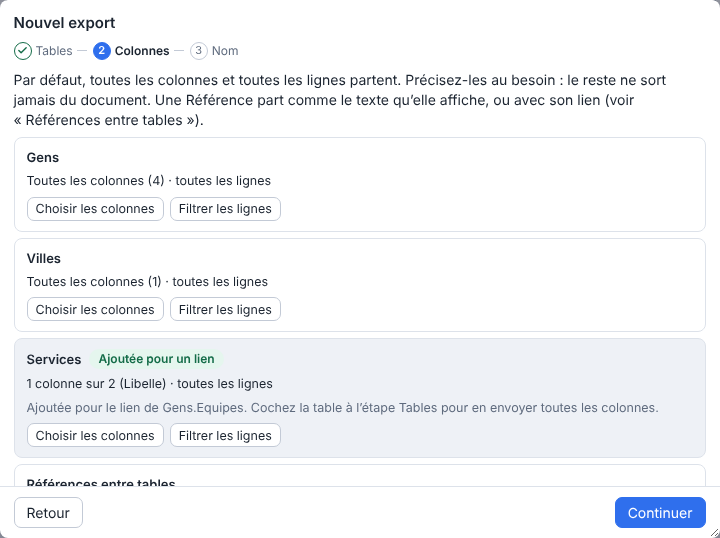
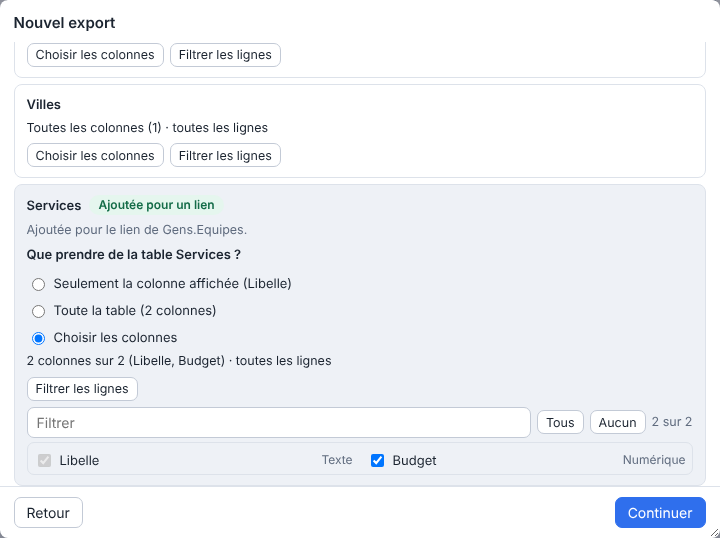
V0.28.0 : table ajoutée pour un lien, colonne affichée seule, toute la table ou colonnes au choix
Le bloc « Ajoutée pour un lien » de l'assistant d'export propose trois choix (js/source/pull.js) :
la colonne que la Référence affiche (d'emblée), toute la table (sauf ses Pièces jointes, qui ne
partent que cochées) ou les colonnes cochées. Écran seul : moteur inchangé (4.11.0).

Claude-Session: https://claude.ai/code/session_01TbSoW5bUCETEPLAPoEdMn9

diff --git a/js/source/export-wizard.js b/js/source/export-wizard.js
@@ -18,6 +18,7 @@ import { recipientWizard } from './recipient-wizard.js';
 import { progressTo } from './flow.js';
 import { backButton, cancelButton, checkList, closeButtons, confirmDialog, el, laterButton, message, notice, openWizard, pickField, run } from '../ui.js';
 import { filterEditor, filterSummary } from './filter-editor.js';
+import { PULL_MODES, extrasFor, pullColumns, pullLeftOut } from './pull.js';
 import { roleGuide } from '../guide.js';
 import { stepHelp } from '../tutorial.js';
 import { t, typeName } from '../i18n.js';
@@ -38,7 +39,8 @@ export function exportWizard(exp, onClose) {
     selected: new Map(exp ? exp.tables.map(tb => [tb.table, tb.columns.map(c => c.id)]) : []), // table -> colonnes cochées
     filters: new Map(exp ? exp.tables.map(tb => [tb.table, tb.filter]) : []), // table -> filtre de lignes, ou null
     choices: new Map(), // colonne Référence (refKey) -> garder son lien ? (choix fait dans cette fenêtre)
-    extras: new Map(), // table ajoutée pour un lien -> colonnes cochées en plus de celle que le lien affiche
+    extras: new Map(), // table ajoutée pour un lien -> colonnes cochées en plus de celle que le lien affiche (choix « Choisir les colonnes »)
+    pulls: new Map(), // table ajoutée pour un lien -> ce qu'elle envoie : 'shown' (d'emblée), 'all' ou 'pick' (voir pull.js)
     saved: savedLinks(exp), // refKey -> la colonne de l'export enregistré gardait son lien
   }));
 }
@@ -57,7 +59,7 @@ async function showTables(ctx) {
     items: tables.map(id => ({ value: id, label: id })), checked: ctx.chosen, label: t('send.step.tables'),
     onChange: (values) => {
       // Une table cochée ici n'est plus « ajoutée pour un lien » : elle repart de ses colonnes et de son filtre habituels.
-      for (const table of values.filter(v => !ctx.chosen.includes(v))) for (const map of [ctx.extras, ctx.selected, ctx.filters]) map.delete(table);
+      for (const table of values.filter(v => !ctx.chosen.includes(v))) for (const map of [ctx.extras, ctx.pulls, ctx.selected, ctx.filters]) map.delete(table);
       ctx.chosen = values; next.disabled = !values.length; ctx.wizard.buttons([cancel, next]);
     },
   });
@@ -116,38 +118,71 @@ function togglePart(part, label, open, onOpen = () => {}) {
 
 // Ce que la personne décide pour chaque colonne Référence ou Liste de références cochée (voir linkOffers), à
 // l'état de la fenêtre : les choix faits, ceux de l'export enregistré, sinon le lien est gardé quand la table visée est
-// cochée. Les colonnes d'une table ajoutée pour un lien sont celles que le lien affiche et celles que la personne y coche.
+// cochée. Les colonnes d'une table ajoutée pour un lien sont celles que le lien affiche et celles que la personne y prend
+// (toute la table, ou celles qu'elle y coche : voir pull.js).
+const pullMode = (ctx, table) => ctx.pulls.get(table) || 'shown';
+const pulledColumns = (ctx, schema, table, required = []) => pullColumns({
+  mode: pullMode(ctx, table), usable: exportableColumns(schema.columns(table) || []), required, extras: [...(ctx.extras.get(table) || [])],
+});
 const offersOf = (ctx, schema) => linkOffers({
   chosen: ctx.chosen, columnsOf: table => exportableColumns(schema.columns(table) || []),
-  picked: table => (ctx.chosen.includes(table) ? ctx.selected.get(table) : [...(ctx.extras.get(table) || [])]),
+  picked: table => (ctx.chosen.includes(table) ? ctx.selected.get(table) : pulledColumns(ctx, schema, table)),
   choices: ctx.choices, saved: ctx.saved,
 });
 
-// Bloc d'une table ajoutée pour un lien : elle ne part qu'avec la colonne que la Référence affiche (verrouillée) et celles
-// que la personne coche en plus ; ses lignes peuvent se filtrer comme celles des autres tables.
+// Bloc d'une table ajoutée pour un lien. Trois choix (voir pull.js) : la seule colonne que la Référence affiche (d'emblée), toute la
+// table, ou les colonnes que la personne coche (la colonne affichée reste verrouillée). Ses lignes peuvent se filtrer comme celles
+// des autres tables.
 function pulledBlock(ctx, schema, { table, required, because, onChange }) {
   const usable = exportableColumns(schema.columns(table) || []);
-  const picked = () => [...new Set([...required, ...(ctx.extras.get(table) || [])])];
+  const mode = () => pullMode(ctx, table);
+  const picked = () => pulledColumns(ctx, schema, table, required);
+  const labels = ids => usable.filter(c => ids.includes(c.id)).map(c => c.label);
   const summary = el('p', { class: 'small' });
+  const leftOut = el('p', { class: 'muted small' });
   const describe = () => {
-    const names = usable.filter(c => picked().includes(c.id)).map(c => c.label).join(', ');
     const rows = filterSummary(ctx.filters.get(table));
+    const names = mode() === 'all' ? t('send.refs.summary.whole') : labels(picked()).join(', ');
     summary.textContent = `${t('send.columns.some', { n: picked().length, total: usable.length })} (${names}) · ${rows ? t('send.rows.filtered', { filter: rows }) : t('send.rows.all')}`;
+    const files = pullLeftOut({ mode: mode(), usable }).map(c => c.label);
+    leftOut.textContent = files.length ? t('send.refs.mode.files', { cols: files.join(', ') }) : '';
+    leftOut.classList.toggle('hidden', !files.length);
   };
-  const columns = el('div', { class: 'form' }, checkList({
-    items: usable.map(c => ({ value: c.id, label: columnLabel(c), hint: typeName(c.source), keywords: typeName(c.source), locked: required.includes(c.id) })), wide: true,
-    checked: picked(), label: table, onChange: (values) => { ctx.extras.set(table, values.filter(v => !required.includes(v))); describe(); onChange(); },
-  }));
+  const columns = el('div', { class: 'form' });
+  const drawColumns = () => {
+    columns.replaceChildren(checkList({
+      items: usable.map(c => ({ value: c.id, label: columnLabel(c), hint: typeName(c.source), keywords: typeName(c.source), locked: required.includes(c.id) })), wide: true,
+      checked: picked(), label: table, onChange: (values) => { ctx.extras.set(table, values.filter(v => !required.includes(v))); describe(); onChange(); },
+    }));
+    columns.classList.toggle('hidden', mode() !== 'pick');
+  };
+  const choose = (next) => {
+    // De « toute la table » à « choisir » : ce qui partait reste coché, pour pouvoir y retirer des colonnes.
+    if (next === 'pick' && mode() !== 'pick') ctx.extras.set(table, extrasFor({ usable, required, columns: picked() }));
+    ctx.pulls.set(table, next);
+    drawColumns();
+    describe();
+    onChange();
+  };
+  const name = `gristsync-pull-${table}`;
+  const texts = {
+    shown: t('send.refs.mode.shown', { cols: labels(required).join(', ') }),
+    all: t('send.refs.mode.all', { n: usable.filter(c => !pullLeftOut({ mode: 'all', usable }).includes(c)).length }),
+    pick: t('send.refs.mode.pick'),
+  };
+  const modes = el('div', { class: 'radios pull-modes', role: 'radiogroup', 'aria-label': t('send.refs.mode', { table }) },
+    PULL_MODES.map(value => el('label', { class: 'check' },
+      el('input', { type: 'radio', name, value, checked: mode() === value, onchange: () => choose(value) }), el('span', {}, texts[value]))));
   const editor = filterEditor({ table, columns: usable, current: ctx.filters.get(table), labelOf: columnLabel, onChange: (filter) => { ctx.filters.set(table, filter); describe(); } });
   const filtered = Boolean(filterSummary(ctx.filters.get(table)));
   if (filtered) editor.load();
+  drawColumns();
   describe();
-  return el('div', { class: 'form table-block table-added' },
-    el('div', { class: 'added-head' }, el('h3', {}, table), el('span', { class: 'pill pill-ok' }, t('send.refs.added'))), summary,
+  return el('div', { class: 'form table-block table-added', 'data-pulled': table },
+    el('div', { class: 'added-head' }, el('h3', {}, table), el('span', { class: 'pill pill-ok' }, t('send.refs.added'))),
     el('p', { class: 'muted small' }, t('send.refs.added.because', { cols: because.join(', ') })),
-    el('div', { class: 'block-actions' },
-      togglePart(columns, t('send.columns.pick'), (ctx.extras.get(table) || []).length > 0),
-      togglePart(editor.node, t('send.rows.pick'), filtered, editor.load)),
+    el('p', { class: 'field-title' }, t('send.refs.mode', { table })), modes, summary, leftOut,
+    el('div', { class: 'block-actions' }, togglePart(editor.node, t('send.rows.pick'), filtered, editor.load)),
     columns, editor.node);
 }
 
@@ -181,7 +216,7 @@ function refRow(ctx, offer, onPick) {
 }
 
 // Colonnes Référence et Liste de références (voir links.js) : pour chacune, n'envoyer que le texte affiché ou garder le lien (la table
-// visée s'ajoute alors à l'export avec sa seule colonne affichée). Hors Échange, où les colonnes vont dans les deux sens par leur
+// visée s'ajoute alors à l'export : sa colonne affichée seule, toute la table ou des colonnes au choix). Hors Échange, où les colonnes vont dans les deux sens par leur
 // nom. `onTables` reçoit les tables de l'export à chaque changement. Rend les nœuds (tables ajoutées, puis bloc des choix).
 function linkSection(ctx, schema, onTables) {
   if (ctx.exp?.echange) return null;
@@ -201,12 +236,15 @@ function linkSection(ctx, schema, onTables) {
   };
   function refresh() {
     const offers = offersOf(ctx, schema);
-    for (const table of [...ctx.extras.keys()]) if (!offers.pulled.has(table)) ctx.extras.delete(table);
+    for (const map of [ctx.extras, ctx.pulls]) for (const table of [...map.keys()]) if (!offers.pulled.has(table)) map.delete(table);
     const rowsSig = JSON.stringify(offers.rows.map(r => [r.key, r.ok, r.why]));
     if (rowsSig !== state.shown) { state.shown = rowsSig; redrawRefs(offers); } else offers.rows.forEach(r => state.rows.get(r.key).update(r));
     const pulledSig = JSON.stringify([[...offers.pulled], offers.rows.filter(r => r.link).map(r => [r.key, r.target])]);
     if (pulledSig !== state.pulled) { state.pulled = pulledSig; redrawPulled(offers); }
-    const items = [...offers.pulled].map(([table, required]) => `${table} (${required.map(id => (exportableColumns(schema.columns(table) || []).find(c => c.id === id) || { label: id }).label).join(', ')})`);
+    const items = [...offers.pulled].map(([table, required]) => {
+      const names = pullMode(ctx, table) === 'all' ? [t('send.refs.summary.whole')] : pulledColumns(ctx, schema, table, required).map(id => (exportableColumns(schema.columns(table) || []).find(c => c.id === id) || { label: id }).label);
+      return `${table} (${names.join(', ')})`;
+    });
     state.summary.textContent = items.length ? t('send.refs.summary.some', { items: items.join(', ') }) : t('send.refs.summary.none');
     onTables([...ctx.chosen, ...offers.pulled.keys()]);
   }
@@ -344,10 +382,11 @@ function showName(ctx) {
 }
 
 // Les choix de la personne : par table, ses colonnes cochées et son filtre (saveChosenExport les écrit), les tables ajoutées
-// pour un lien (avec leur seule colonne affichée et ce que la personne y a coché) et les colonnes qui gardent leur lien.
+// pour un lien (avec ce que la personne y prend : la colonne affichée seule, toute la table ou ses colonnes cochées) et les colonnes qui gardent leur lien.
 async function choicesOf(ctx) {
-  const offers = ctx.exp?.echange ? null : offersOf(ctx, await readSchema());
-  const added = offers ? [...offers.pulled].map(([table, required]) => ({ table, columns: [...new Set([...required, ...(ctx.extras.get(table) || [])])], filter: ctx.filters.get(table) || null })) : [];
+  const schema = await readSchema();
+  const offers = ctx.exp?.echange ? null : offersOf(ctx, schema);
+  const added = offers ? [...offers.pulled].map(([table, required]) => ({ table, columns: pulledColumns(ctx, schema, table, required), filter: ctx.filters.get(table) || null })) : [];
   const explicit = ctx.chosen.map(table => ({ table, columns: ctx.selected.get(table), filter: ctx.filters.get(table) || null }));
   return { selection: [...explicit, ...added], links: new Set(offers ? offers.rows.filter(r => r.link).map(r => r.key) : []) };
 }

diff --git a/js/source/pull.js b/js/source/pull.js
@@ -1,0 +1,23 @@
+// Table ajoutée à l'export pour garder le lien d'une Référence (voir linkOffers de engine/logic/links.js) : ce qu'elle envoie.
+// Trois choix, faits dans son bloc de l'étape Colonnes :
+//  - 'shown' (d'emblée) : la seule colonne que le lien affiche, rien de plus ;
+//  - 'all' : toutes les colonnes de la table, sauf les Pièces jointes (elles ne partent que cochées : leurs fichiers partent page ouverte
+//    et peuvent peser lourd), que la personne ajoute par 'pick' ;
+//  - 'pick' : la colonne affichée (toujours envoyée, verrouillée) et celles que la personne coche.
+// Logique pure : l'écran donne les colonnes envoyables de la table (`usable`, exportableColumns), celles que le lien exige (`required`) et
+// celles que la personne a cochées en plus (`extras`) ; le moteur ne connaît que la liste finale (`saveChosenExport`).
+import { isFileColumn } from '../engine/logic/exports.js';
+
+export const PULL_MODES = ['shown', 'all', 'pick'];
+
+// Colonnes envoyées par une table ajoutée pour un lien, dans l'ordre : celles que le lien exige, puis les autres.
+export function pullColumns({ mode = 'shown', usable = [], required = [], extras = [] }) {
+  const more = mode === 'all' ? usable.filter(c => !isFileColumn(c)).map(c => c.id) : mode === 'pick' ? extras : [];
+  return [...new Set([...required, ...more])];
+}
+
+// Colonnes de Pièces jointes que « toute la table » laisse de côté (à dire à la personne).
+export const pullLeftOut = ({ mode = 'shown', usable = [] }) => (mode === 'all' ? usable.filter(isFileColumn) : []);
+
+// Le choix qui décrit des colonnes déjà cochées : passer de « toute la table » à « choisir » garde ce qui partait, pour pouvoir y retirer.
+export const extrasFor = ({ usable = [], required = [], columns = [] }) => columns.filter(id => !required.includes(id) && usable.some(c => c.id === id));

diff --git a/css/style.css b/css/style.css
@@ -170,6 +170,7 @@ main { padding: 12px; max-width: 760px; margin: 0 auto; }
 .ref-row { display: grid; grid-template-columns: minmax(0, 1fr) auto; gap: 4px 12px; align-items: center; padding: 8px 0 2px; border-top: 1px solid var(--border); }
 .ref-row .ref-note { grid-column: 1 / -1; }
 .ref-row .radios { flex-wrap: wrap; }
+.pull-modes { flex-direction: column; gap: 4px; align-items: flex-start; }
 @media (max-width: 560px) { .ref-row { grid-template-columns: minmax(0, 1fr); } }
 .table-block .summary { padding-top: 6px; border-top: 1px solid var(--border); font-weight: 600; }
 .fiche { display: grid; grid-template-columns: auto 1fr; gap: 3px 12px; margin: 6px 0; }

diff --git a/js/config.js b/js/config.js
@@ -16,4 +16,4 @@ export const widgetUrl = () => (servedAt() === BETA_URL ? BETA_URL : WIDGET_URL)
 // D'où cette copie est servie, pour le diagnostic.
 export const servedFrom = () => ({ [BETA_URL]: 'bêta', [WIDGET_URL]: 'officielle' }[servedAt()] || servedAt());
 
-export const VERSION = '0.27.0';
+export const VERSION = '0.28.0';

diff --git a/GFS-ETAT.md b/GFS-ETAT.md
@@ -1,6 +1,6 @@
 # GFS-ETAT : syncPlus
 
-Mis à jour le 2026-11-12. Moteur 4.11.0 (dernier changement décrit : références entre tables, choix par colonne, voir « Changements ») ; syncPlus est à la 0.27.0.
+Mis à jour le 2026-11-13. Moteur 4.11.0 (dernier changement décrit : références entre tables, choix par colonne, voir « Changements ») ; syncPlus est à la 0.28.0 (écran seul, moteur inchangé).
 **Nom du produit** (décisions du porteur, 12 novembre : « Le produit sera syncPlus pour être cohérent avec le reste du naming de GFS », puis « à l'écran : Sync+ ») : le produit et le dépôt s'appellent « syncPlus », le widget s'affiche « Sync+ » (titre, diagnostic, consignes, tutoriel intégré) ; ce fichier disait « Sync+ » et « Synchro Grist ». La table technique s'appelle toujours `Synchro`, rien ne change dans les documents.
 Fichier de développement : il ne se publie pas (hors du dépôt public).
 
@@ -37,6 +37,7 @@ Fichier de développement : il ne se publie pas (hors du dépôt public).
 - **Pour la suite** : une règle est écrite dans le `README` du moteur (5 : une fonction qui grossit se découpe, sous les seuils ; 6 : le texte des formules de `Synchro` ne change pas sans décision). GFS peut mettre à jour le `README` du kit (« aucune fonction au-dessus des seuils » redevient vrai).
 
 ## Changements qui touchent GFS
+- 2026-11-13 · syncPlus 0.28.0 · **moteur inchangé (4.11.0)**, rien à reprendre. Écran seul : pour une table ajoutée à l'export par « Garder le lien », la personne choisit ce qu'elle envoie (la colonne affichée seule, toute la table sauf ses Pièces jointes, ou des colonnes au choix : `js/source/pull.js`, hors du moteur). Un hôte qui veut le même choix passe à `saveChosenExport` la `selection` voulue (la colonne affichée est toujours exigée par `linkOffers` : `pulled`), et à `linkOffers` les colonnes prises par `picked` (les Références d'une table prise en entier deviennent des choix de plus).
 - 2026-11-12 · `90ee7dc` · **moteur 4.11.0, mineure** (syncPlus 0.27.0, demande du porteur : « lorsqu'il y a des références dans les tables envoyées, peut-on l'indiquer ? et demander si l'user veut envoyer le contenu uniquement en valeur ou ajouter la table/colonnes utilisées pour conserver les références ? et que côté cible on refasse les références fonctionnelles »). Remplace la case unique « Garder les liens » par un choix **par colonne** Référence ou Liste de références. **Ce que GFS peut faire** : appeler `linkOffers({ chosen, columnsOf, picked, choices, saved })` (`logic/links.js`) pour savoir quelles colonnes offrent un lien et quelles tables s'ajoutent (`pulled`, avec leur seule colonne affichée) ; passer au `saveChosenExport({ …, links })` un `Set` de `refKey(table, colonne)` (exactement ces colonnes, listes comprises) ou `true` (ancien sens : les Références seules) ; côté CIBLE, rien à faire (le passage convertit les colonnes créées par le widget, une Liste de références comme une Référence, et complète une liste dont une ligne visée n'est pas encore arrivée) ; `relink(journal)` (`target/loop.js`) refait, sur clic d'un propriétaire après confirmation, une colonne restée du texte parce qu'elle était remplie (`result.relinkable` dans le résultat de la table). La description signée des colonnes gagne `list: true` à côté de `link` (une CIBLE d'avant la 4.11 ferait d'une Liste de références une Référence simple : relever `CODE_FORMAT` à la publication). Port (`PORT_SHAPE`), noms de tables, texte des formules de `Synchro` (`formulas-golden` inchangé : `getattr(r, id).id_sync` d'un ensemble de lignes rend la liste) **inchangés**. Essais : unit 510 (`links`, `engine-refs`), e2e `ONLY_LINKS=1`. Détail : `js/engine/README.md` (« Références entre tables, choix par colonne (4.11.0) »).
 - 2026-11-12 · `b7d16ef` · **moteur 4.10.0, mineure** (syncPlus 0.26.0, point 7 de la liste du porteur : « option SOURCE pour l'ordre, les colonnes cachées et les vues »). Rien n'est ajouté au port ni aux tables, `CODE_FORMAT` et texte des formules de `Synchro` inchangés. **Comportement par défaut inchangé** : sans la case (`layout` de `saveChosenExport`, décochée d'emblée, jamais en Échange), aucune description de colonne ne change. Avec elle, chaque colonne porte `pos` (rang parmi les colonnes envoyées et montrées par la page de la table, -1 si la page la cache) dans la description signée des colonnes (`logic/layout.js` : `modelSection`, `withLayout`, `layoutSent`, `planLayout`, `isPos`) ; la SOURCE le tient à jour sans renvoyer de ligne (`refreshOptions`, qui lit `_grist_Views_section` et `_grist_Views_section_field` seulement si une description porte `"pos":`). **CIBLE** (`target/layout.js`, `layoutColumns`) : seules les colonnes créées par le widget (`own`) sont décidées, une fois chacune (`laid` dans l'entrée de la note, ajouté aux clés de `saveEntries`), puis sur `restyle(journal, { layout: true })` ; on retire le champ d'une colonne cachée et on répartit les places des champs entre les colonnes montrées ; jamais de donnée, de droit, de tri ni de filtre. `sentElements` rend `'layout'`. Un hôte qui n'envoie ni ne reçoit `pos` ne change pas. Vérifié dans un Grist 1.7 : les colonnes cachées n'existent que dans une section de page (la section de données brutes refuse de retirer un champ), Grist décale seul les positions qui se touchent.
 - 2026-11-12 · `e1df926` · **moteur 4.9.0, mineure** (syncPlus 0.25.0, point 6 de la liste du porteur : « valeurs par défaut et formules de déclenchement, mêmes garde-fous que les formules »). Rien n'est ajouté au port ni aux tables, `CODE_FORMAT` et texte des formules de `Synchro` inchangés. **Aucun effet sans la case Formules** (`formulas` de `saveChosenExport`, hôte qui ne la passe pas : rien ne change). Avec elle, la description signée des colonnes porte aussi `fd` (texte nettoyé et borné comme `fx`, partageant les 20 000 caractères de la table) pour une colonne de données dont la formule de déclenchement ne joue que sur les nouvelles lignes (`sourceDefault` : `recalcWhen` 0, aucune colonne suivie ; Référence et Pièces jointes exclues ; une formule qui se recalcule quand une colonne change ou à toute modification ne part pas, parce qu'elle réécrirait chez la CIBLE des valeurs que la SOURCE envoie déjà). Vérifié dans Grist 1.7 : une telle formule ne remplit qu'une cellule que l'ajout ne donne pas (une valeur donnée, même vide, l'emporte), ne touche pas aux lignes déjà là, donc la recopie ne la déclenche jamais. `planFormulas` rend `kind` ('column' ou 'default') sur chaque ligne ; une formule par défaut se pose par `ModifyColumn { isFormula: false, formula, recalcWhen: 0 }` (colonne créée par le widget, jamais une colonne de formule ici : problème `formulaHere`) avec les mêmes garde-fous (`formulaProblems`) et le même clic d'un propriétaire. `sentElements` et `elementCounts` comptent aussi les formules par défaut. Écran de syncPlus : texte de la case et du message de l'assistant d'export, `js/target/restyle.js` (étiquette « formule par défaut »). Essais : `tests/unit/engine-formulas.test.mjs`, e2e `ONLY_FORMULAS=1`.

diff --git a/CLAUDE.md b/CLAUDE.md
@@ -375,7 +375,32 @@ catalogue), syncPlus seul se comporte comme avant, tout est dans `js/engine/` (m
   `engine-fake.mjs`, préfixe `Gfs_`) ; les autres essais n'ont changé que leurs chemins d'import (`js/logic` devient
   `js/engine/logic`), l'e2e que les chemins des fichiers servis.
 
-## État : V0.27.0 (12 novembre 2026)
+## État : V0.28.0 (13 novembre 2026)
+
+V0.28.0 (Antoine, 13 novembre, devant le bloc « Références entre tables » de la 0.27 : « peut-on proposer de prendre soit uniquement la colonne référencée, ou alors toute la
+table, ou alors un choix des colonnes à prendre ? »). **Moteur inchangé (4.11.0)** : tout est à l'écran, la `selection` de `saveChosenExport` portait déjà des colonnes quelconques par
+table ajoutée. Rien n'est poussé sur `main` avant le feu vert d'Antoine (il fait ses dernières vérifications à la main sur la Bêta, dont les Pages suivent `main`) : le travail est sur la
+branche du fil.
+- **Trois choix par table ajoutée pour un lien** (bloc « Ajoutée pour un lien », `pulledBlock` de `js/source/export-wizard.js`, titre « Que prendre de la table X ? ») : **Seulement la colonne
+  affichée (Libelle)** (d'emblée, comme avant), **Toute la table (N colonnes)** et **Choisir les colonnes** (la liste de cases `checkList` s'ouvre, la colonne affichée reste verrouillée ; de
+  « toute la table » à « choisir », ce qui partait reste coché pour pouvoir y retirer). Le bouton « Choisir les colonnes » du bloc est remplacé par ce choix ; « Filtrer les lignes » reste.
+  Résumé du bloc et ligne « Part en plus des tables cochées : Services (toute la table) » suivent le choix. Une explication est dans la note de la colonne (`send.refs.note.pull`) et l'aide du bloc.
+- **Logique pure** `js/source/pull.js` (testée, `tests/unit/pull.test.mjs`) : `pullColumns({ mode, usable, required, extras })` (colonnes exigées d'abord ; `all` = toutes les colonnes
+  envoyables **sauf les Pièces jointes**, qui ne partent que cochées : fichiers lourds, partis page ouverte, `pullLeftOut` les liste et le bloc le dit), `extrasFor`. État de l'écran :
+  `ctx.pulls` (table -> `'shown' | 'all' | 'pick'`) à côté de `ctx.extras` (colonnes cochées du choix `pick`) ; vidé avec elle quand la table n'est plus ajoutée ou que la personne la coche à
+  l'étape Tables. `offersOf` et `choicesOf` passent par `pulledColumns` (une seule règle).
+- **Cascade** : les Références d'une table prise en entier deviennent des choix de plus dans « Références entre tables » (valeurs seules d'emblée si leur table n'est pas cochée ; lien gardé d'emblée
+  si elle l'est) : garder l'une d'elles ajoute sa table visée à son tour (testé : `Services.Direction` -> `Directions`). Aucune table ne s'ajoute sans choix.
+- **Sécurité** : envoyer plus de colonnes est un choix explicite de la personne qui envoie, avec les mêmes garde-fous que pour une table cochée (lien public refusé si une règle d'autrui cache
+  lignes ou colonnes, filtre de lignes, colonnes cachées par la page : rien de plus ne part). SECURITY.md, bullet « Références entre tables » complété.
+- Testé : unit 516 (`pull.test.mjs` : trois choix, Pièces jointes, bascule `all` -> `pick`, Références d'une table prise en entier ; `engine-refs.test.mjs` : trois exports enregistrés, schéma du
+  lot de `Services` = Libelle seule / Libelle et Budget) ; e2e `ONLY_LINKS=1` (`linksSteps` : choix d'emblée sur la colonne affichée, « Toute la table » (2 colonnes sur 2), « Choisir les colonnes » avec
+  Budget gardé et Libelle verrouillée, retour à la colonne seule ; un second export « Annuaire complet » prend Services en entier, un second document CIBLE reçoit Budget et la Liste de références).
+  Captures refaites : `docs/images/29-source-liens.png`, `29b-source-liens-tables-ajoutees.png` (le bloc avec ses trois choix), `29c`.
+- **Pas fait, dit** : le choix se fait par table ajoutée, pas par colonne qui la demande (une table citée par deux Références a un seul bloc) ; « toute la table » ne reprend pas ses colonnes de Pièces
+  jointes ; une table déjà dans l'export (cochée à l'étape Tables) garde son bloc de colonnes habituel.
+
+## État précédent : V0.27.0 (12 novembre 2026)
 
 V0.27.0 (Antoine, 12 novembre : « lorsqu'il y a des références dans les table envoyées, côté source, peut-on l'indiquer ? et demander si l'user veut envoyer le
 contenu uniquement en valeur ou s'il veut ajouter la table/colonne(s) utilisées pour conserver les relations/références ? et dans ce cas il faut que côté cible on

diff --git a/SECURITY.md b/SECURITY.md
@@ -617,9 +617,11 @@ d'un document :
   comme tout envoi non signé (la carte le dit : « Renforcement interrompu »). « Revenir à l'ancien fonctionnement » retire la clé préparée.
   Un Échange d'avant les clés ne passe pas par là (sa reprise tire déjà de nouvelles clés).
 - **Références entre tables (0.27)** : garder le lien d'une colonne Référence ou Liste de références est un choix de la personne qui envoie,
-  colonne par colonne ; quand la table visée n'est pas dans l'export, la garder l'**ajoute** avec la seule colonne que la Référence affiche
-  (le bloc « Ajoutée pour un lien » et la ligne « Part en plus des tables cochées » le disent avant l'enregistrement, aucune table ne
-  s'ajoute sans ce choix). Sont envoyés en plus : la clé (UUID) de la ligne visée, ou la liste des clés des lignes visées, dans le lot signé
+  colonne par colonne ; quand la table visée n'est pas dans l'export, la garder l'**ajoute**, d'emblée avec la seule colonne que la Référence affiche ;
+  depuis la 0.28 la personne peut y prendre **toute la table** (sauf ses Pièces jointes, qui ne partent que cochées) ou les colonnes qu'elle coche
+  (le bloc « Ajoutée pour un lien » et la ligne « Part en plus des tables cochées » le disent avant l'enregistrement, aucune table ne s'ajoute
+  sans ce choix, et ses lignes se filtrent comme celles des autres tables : même effet que cocher la table à l'étape Tables, donc même droit
+  d'envoyer ses colonnes ; une Référence de la table prise en entier est un choix de plus, valeurs seules d'emblée). Sont envoyés en plus : la clé (UUID) de la ligne visée, ou la liste des clés des lignes visées, dans le lot signé
   et scellé comme le reste ; rien d'autre de la table visée. Un export en lien public vérifie, comme avant, qu'aucune règle d'accès d'autrui
   ne cache de lignes ou de colonnes des tables lues (`hiddenTables`, refus `publicHiddenEdit`), tables visées comprises. À la CIBLE, la
   conversion d'une colonne en Référence ne touche que les colonnes créées par le widget ; une colonne remplie de texte n'est refaite que sur le

diff --git a/README.md b/README.md
@@ -11,7 +11,7 @@ Sans serveur à héberger, sans dépendance, et seules les colonnes que vous cho
 
 <img src="docs/images/14-cible-historique.png" width="820" alt="Le widget dans le document qui reçoit : l'export « Annuaire » est à jour et liste les lignes ajoutées, modifiées et supprimées depuis la dernière visite">
 
-<sub>Version 0.27.0 · Grist 1.7.11 ou plus récent · licence GPL-3.0 · Grist Factory</sub>
+<sub>Version 0.28.0 · Grist 1.7.11 ou plus récent · licence GPL-3.0 · Grist Factory</sub>
 
 </div>
 
@@ -104,8 +104,8 @@ aussi dans le widget (onglet **Tutoriel**), et chaque étape des assistants a so
   fichiers de l'autre document avant d'être recopiée, et un fichier reçu n'est pas renvoyé.
 - **Liens entre tables** : pour chaque colonne Référence ou Liste de références de l'export, le bloc
   « Références entre tables » (étape Colonnes) demande si elle part en valeurs seulement ou si elle
-  garde son lien. Garder le lien d'une table qui n'est pas dans l'export l'ajoute avec sa seule
-  colonne affichée ; chez le destinataire, la colonne devient une vraie Référence (ou Liste de
+  garde son lien. Garder le lien d'une table qui n'est pas dans l'export l'ajoute, au choix avec sa
+  seule colonne affichée (d'emblée), toute la table ou les colonnes que l'on coche ; chez le destinataire, la colonne devient une vraie Référence (ou Liste de
   références) vers la table reçue, qui affiche la même colonne. Une colonne déjà remplie là-bas reste
   du texte, jusqu'à ce qu'un propriétaire clique « Refaire les références ».
 - **Éléments des colonnes** : en-têtes, couleurs, devise et règles de mise en forme

diff --git a/README.en.md b/README.en.md
@@ -11,7 +11,7 @@ No server to host, no dependencies, and only the columns you pick leave the docu
 
 <img src="docs/images/14-cible-historique.png" width="820" alt="The widget in the receiving document: the “Annuaire” export is up to date and lists the rows added, changed and deleted since the last visit">
 
-<sub>Version 0.27.0 · Grist 1.7.11 or later · GPL-3.0 license · Grist Factory</sub>
+<sub>Version 0.28.0 · Grist 1.7.11 or later · GPL-3.0 license · Grist Factory</sub>
 
 </div>
 
@@ -102,8 +102,8 @@ own picture help. The same walkthrough in French: [`docs/04-tutoriel.md`](docs/0
   is not sent back.
 - **Links between tables**: for each Reference or Reference list column of the export, the
   “References between tables” block (Columns step) asks whether it is sent as values only or keeps
-  its link. Keeping the link of a table that is not in the export adds it, with only the column it
-  shows; on the receiving side the column becomes a real Reference (or Reference list) to the
+  its link. Keeping the link of a table that is not in the export adds it, with a choice: only the
+  column it shows (the default), the whole table, or the columns you tick; on the receiving side the column becomes a real Reference (or Reference list) to the
   received table, showing the same column. A column that already holds text there stays text until
   an owner clicks “Rebuild the references”.
 - **Column elements**: headers, colors, currency and simple conditional formatting rules

diff --git a/js/engine/README.md b/js/engine/README.md
@@ -324,7 +324,8 @@ on refasse les références fonctionnelles » ; choix sur la carte : « Par colo
   références (`RefList:T`) cochée, `{ key, table, id, label, list, target, shown, inside, ok, why, link }` et `pulled` (table à ajouter -> colonnes affichées
   requises, en cascade). Par défaut le lien est gardé quand la table visée est cochée, sinon les valeurs seules partent (rien ne s'ajoute sans le choix) ;
   `ok` est faux sans colonne affichée (`numbers`) ou si cette colonne ne part pas (`hidden`). L'hôte ajoute les tables de `pulled` à la `selection`
-  (colonnes affichées seulement, plus ce que la personne y coche) et passe à `saveChosenExport({ links })` un `Set` de `refKey` (`Table.Colonne`) ; `true`
+  (colonnes affichées seulement, plus ce que la personne y prend : syncPlus lui offre depuis la 0.28 la colonne affichée seule, toute la table ou des colonnes
+  au choix, `js/source/pull.js`, sans rien changer au moteur) et passe à `saveChosenExport({ links })` un `Set` de `refKey` (`Table.Colonne`) ; `true`
   garde l'ancien sens (les Références seules, pas les listes). Une liste qui garde son lien porte `link` et `list: true` dans la description signée des
   colonnes (`schemaText`, `exportSchema`) ; le lot porte les clés des lignes visées (`Synchro_Cle_<colonne>`, une liste pour une liste : le texte des formules
   de `Synchro` ne change pas, `.id_sync` d'un ensemble de lignes rend la liste).

diff --git a/docs/04-tutoriel.md b/docs/04-tutoriel.md
@@ -444,9 +444,11 @@ Référence ou Liste de références de l'export, avec la table qu'elle vise et 
 Pour chacune, deux choix : **Valeurs seulement** (le destinataire reçoit le texte affiché) ou **Garder le
 lien** (il reçoit une vraie Référence, ou Liste de références, vers la table reçue, qui affiche la même
 colonne). Quand la table visée est déjà cochée, le lien est gardé d'emblée ; sinon ce sont les valeurs
-seules qui partent, et garder le lien **ajoute la table visée à l'export** avec sa seule colonne
-affichée (un bloc « Ajoutée pour un lien » le dit, on peut y filtrer les lignes ou cocher d'autres
-colonnes ; la ligne « Part en plus des tables cochées » fait le compte).
+seules qui partent, et garder le lien **ajoute la table visée à l'export** (un bloc « Ajoutée pour
+un lien » le dit ; la ligne « Part en plus des tables cochées » fait le compte). Trois choix dans ce
+bloc, sous « Que prendre de la table ? » : **Seulement la colonne affichée** (d'emblée), **Toute la
+table** (ses Pièces jointes restent à cocher) ou **Choisir les colonnes** (la colonne affichée est
+toujours envoyée, on coche les autres). On peut aussi y filtrer les lignes.
 
 ![Bloc « Références entre tables »](images/29-source-liens.png)
 
